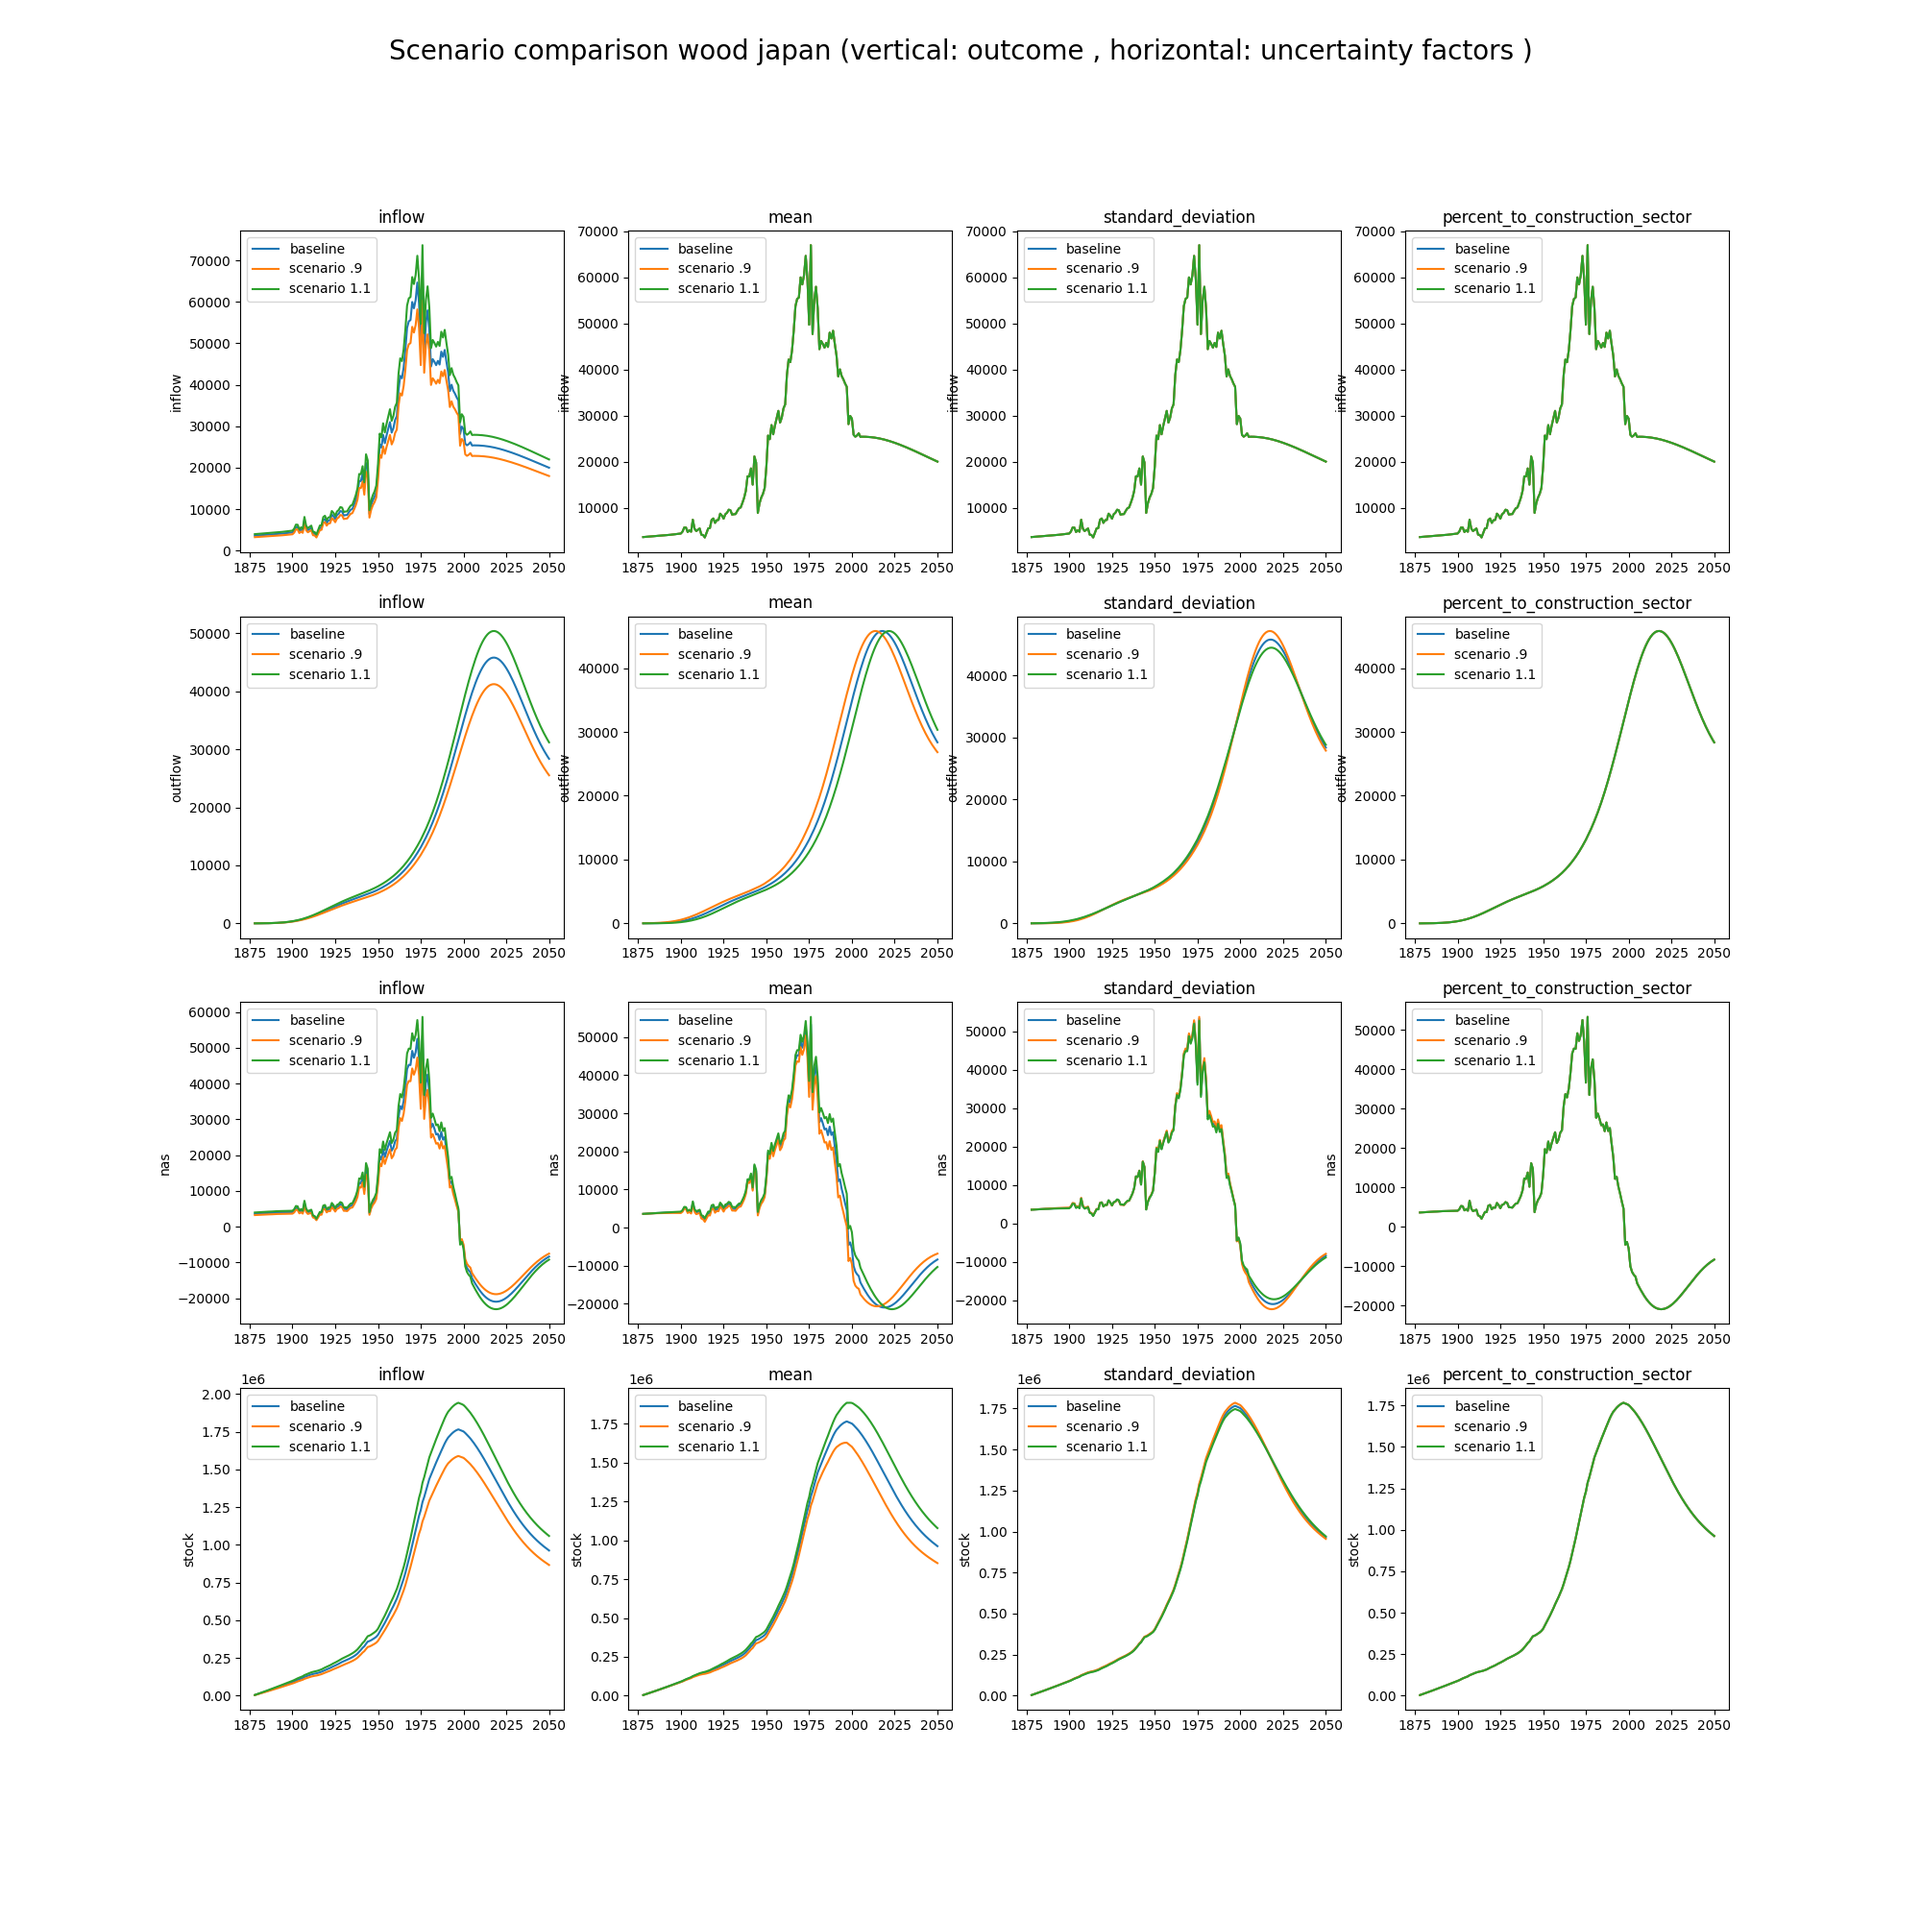
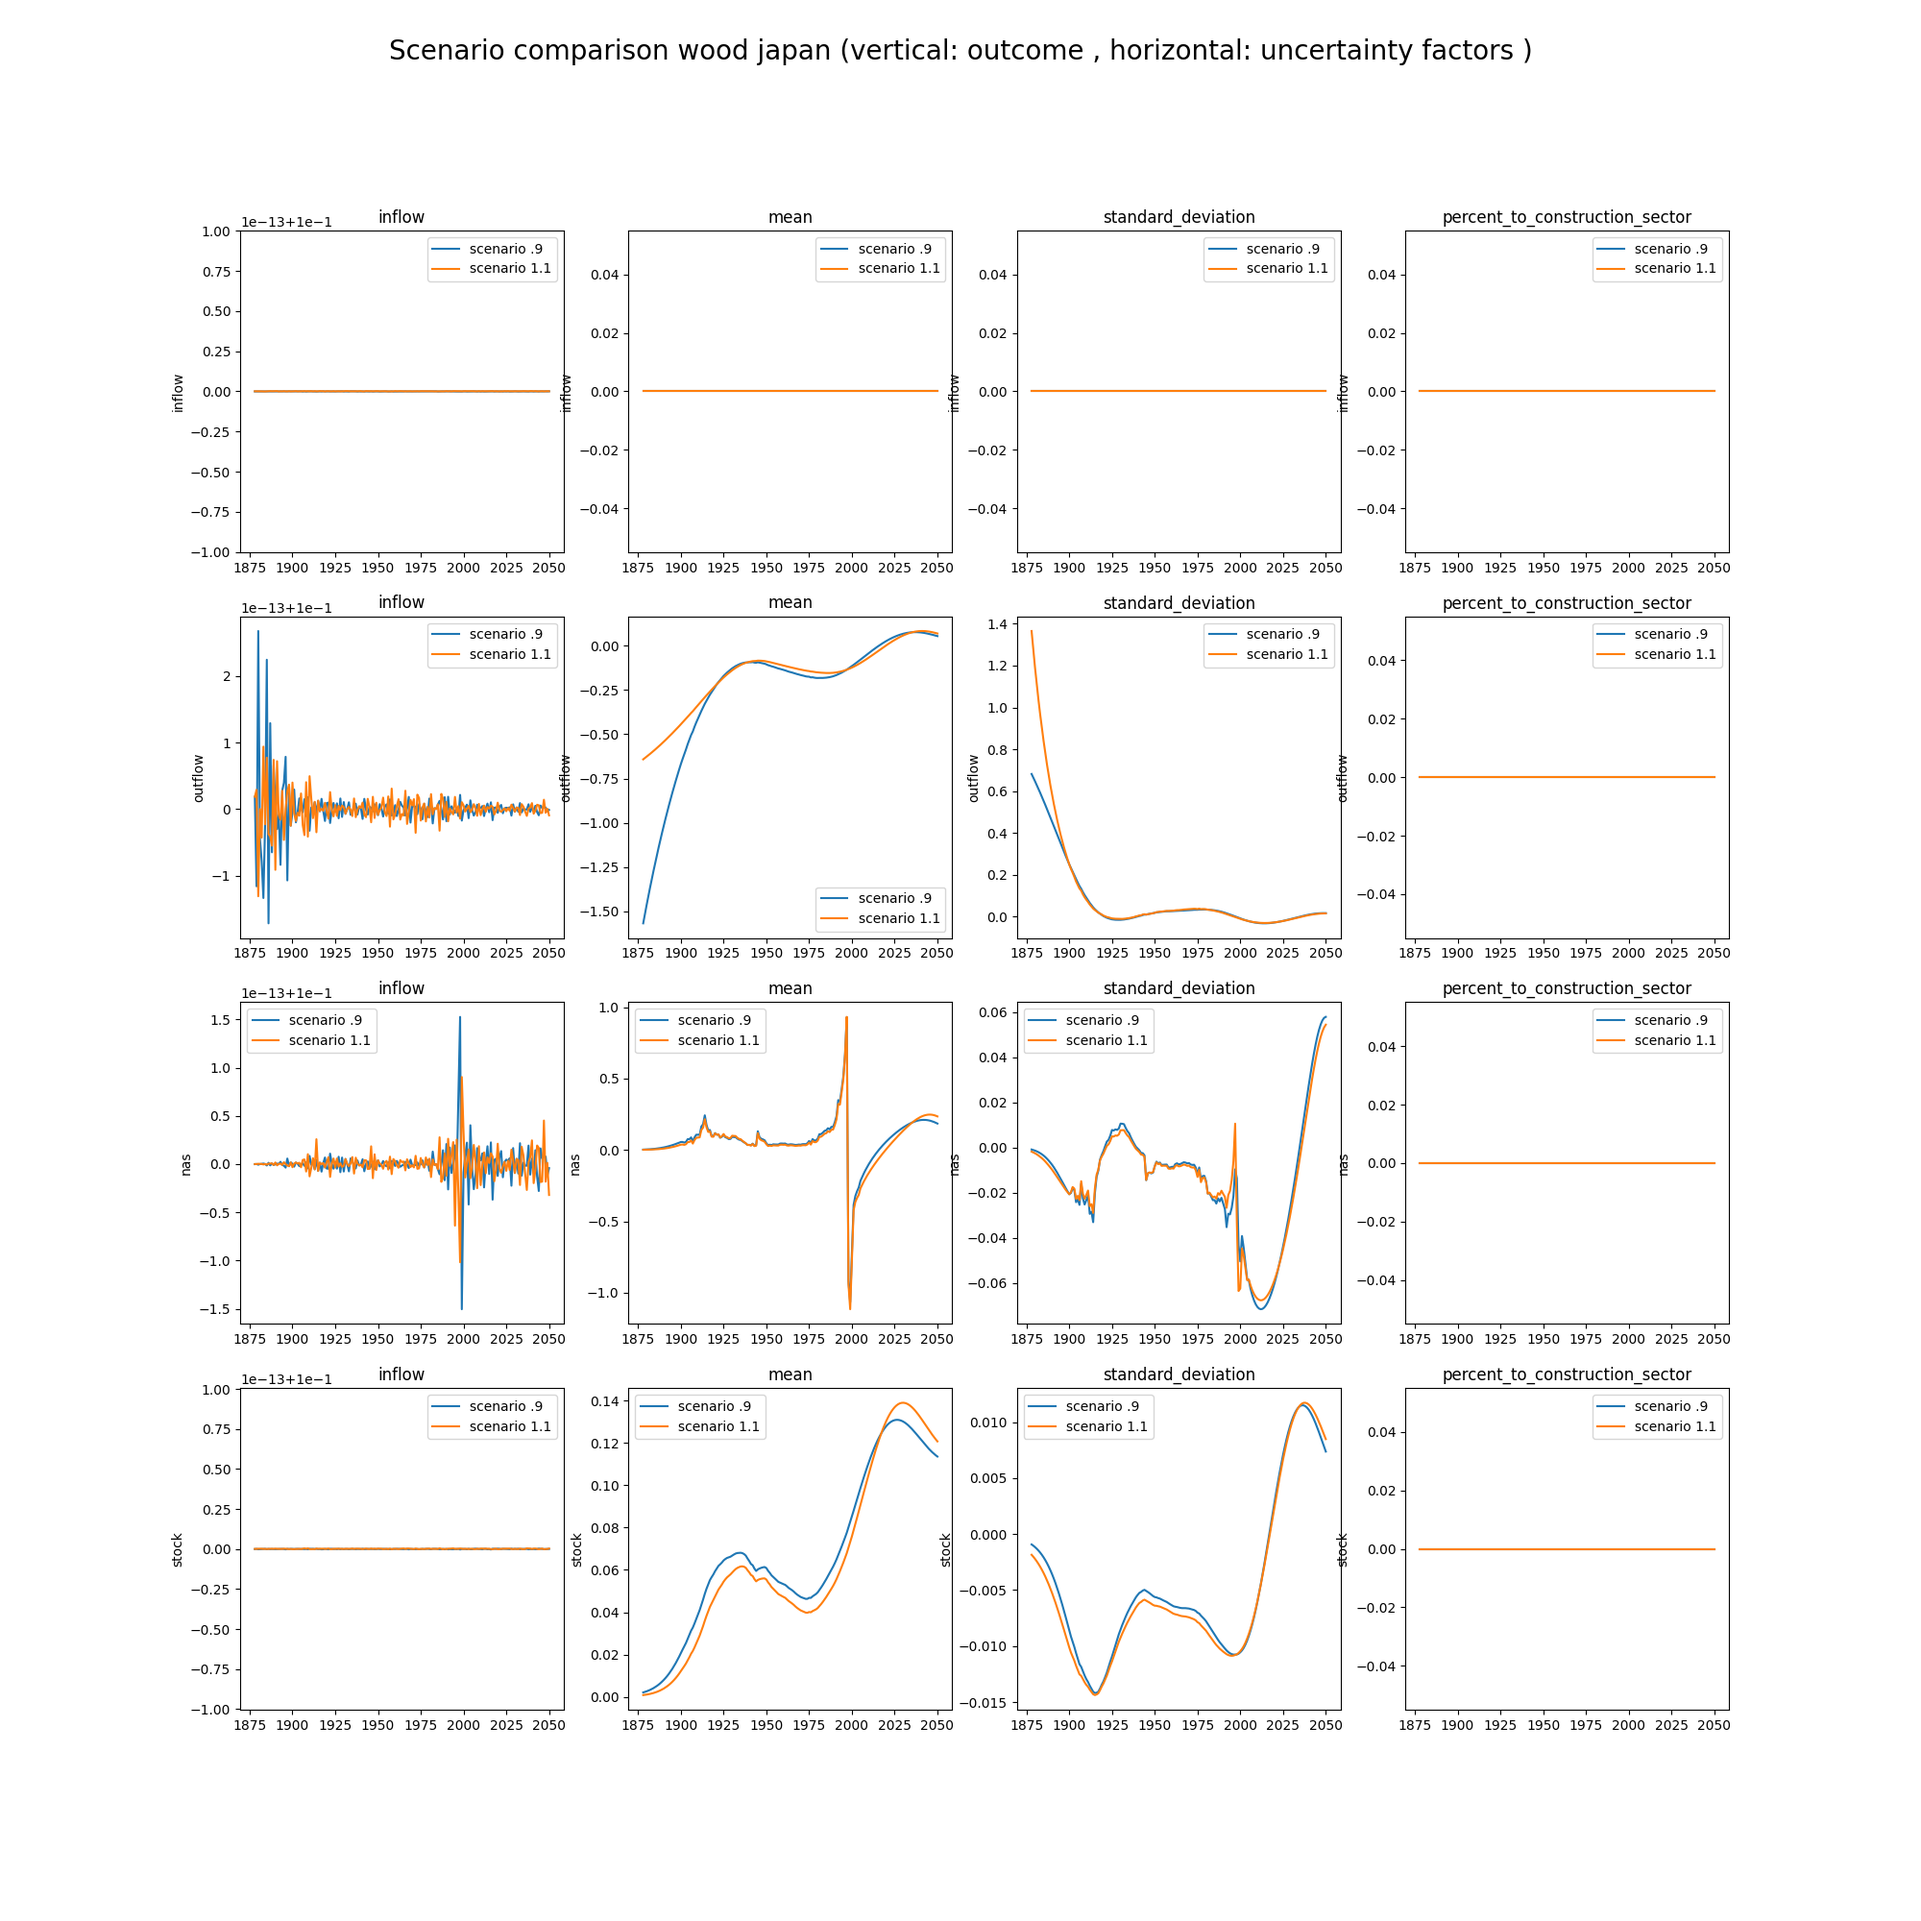
finished also relative

diff --git a/MFA2/MFA2_Sensitivity.py b/MFA2/MFA2_Sensitivity.py
@@ -71,6 +71,26 @@ for j, element in enumerate(factors):
 
 fig.suptitle('Scenario comparison wood japan (vertical: outcome , horizontal: uncertainty factors )', fontsize=20)
 plt.savefig('Scenario comparison wood japan')
-plt.close()
+plt.show()
+
+
+#%% PLOT RESULTS
+fig, ax = plt.subplots(4, 4, figsize=(20, 20), sharey=False)
+
+for j, element in enumerate(factors):
+    for i, column in enumerate(["inflow", "outflow", "nas", "stock"]):
+
+        sns.lineplot(
+            data=(timeseries_scenario[element,.9][column]-timeseries_scenario[element,1][column])/ timeseries_scenario[element,1][column]*100, ax=ax[i, j], label="scenario .9"
+        )
+        sns.lineplot(
+            data=(timeseries_scenario[element,1.1][column]-timeseries_scenario[element,1][column])/timeseries_scenario[element,1][column]*100, ax=ax[i, j], label="scenario 1.1"
+        )
+        ax[i, j].set_title(f"{element}")
+
+fig.suptitle('Scenario comparison wood japan relative (vertical: outcome , horizontal: uncertainty factors ) (%)', fontsize=20)
+plt.savefig('Scenario comparison wood japan relative')
+plt.show()
+
 
 
